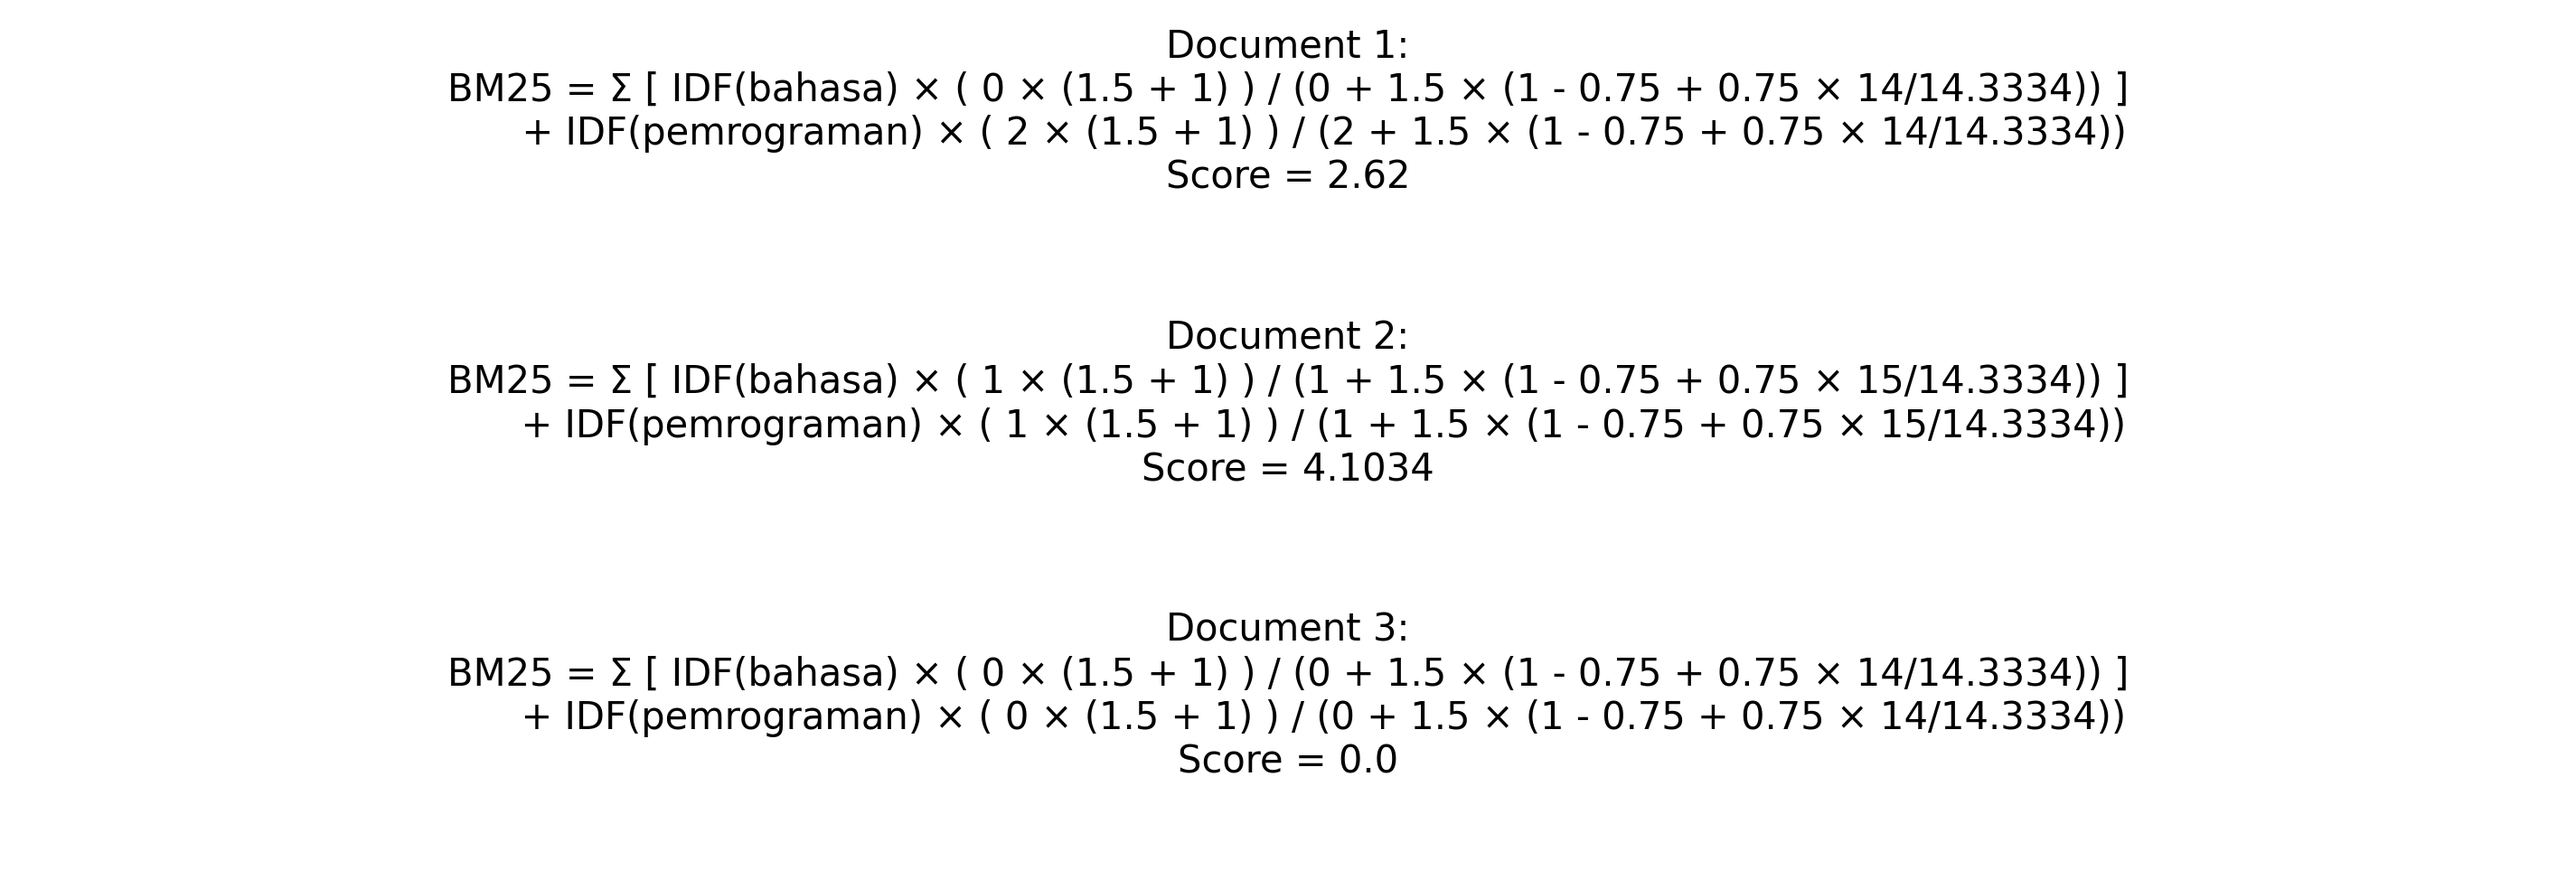
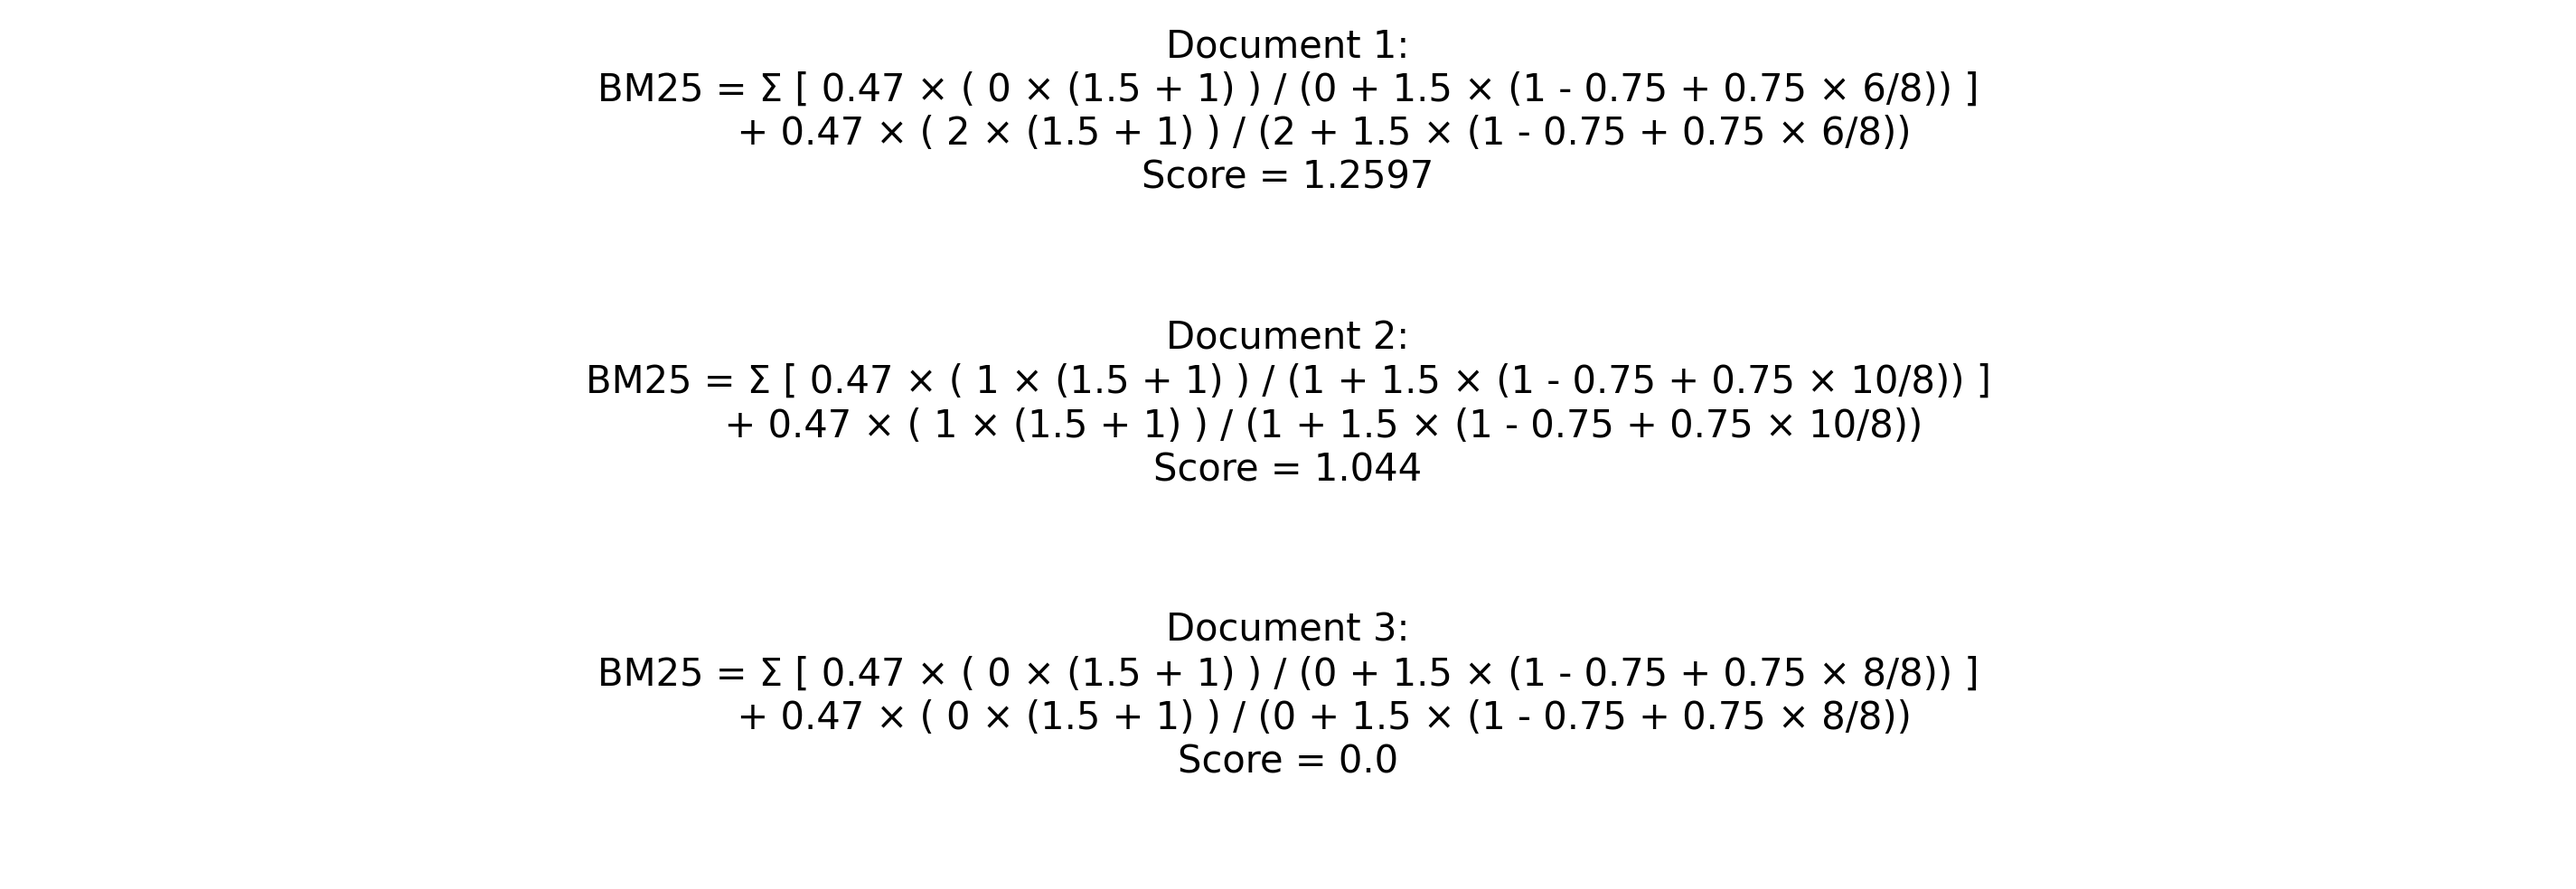
done

Changed region(s): [[0.1561, 0.061, 0.8119, 0.2134], [0.1561, 0.3963, 0.8432, 0.5488], [0.1561, 0.7317, 0.8432, 0.8232]]

diff --git a/revisi.py b/revisi.py
@@ -59,9 +59,12 @@ class InformationRetrievalApp:
     def sort_files_by_bm25_scores(self,scores):
         return sorted(scores, key=lambda x: x[1], reverse=True)
 
-    # function untuk mengecek keterkaitan antara teks dokumen dan query
-    def filter_document_terms(self, query_terms, document_terms):
-        return [term for term in document_terms if term in query_terms]
+    # Cache dokumen setelah preprocessing
+    def preprocess_documents(self, files):
+        self.processed_documents = {
+            file: self.text_processor.process_text(self.read_file(file))
+            for file in files
+        }
 
     # function untuk proses perhitungan skor BM25
     def calculate_bm25(self, query, document, document_length, average_document_length, k1=1.5, b=0.75):
@@ -76,27 +79,34 @@ class InformationRetrievalApp:
             if count > 1:
                 print(f"Kata {word} sebanyak {count} kata\n")
 
-        # Proses perhitungan nilai IDF untuk setiap term pada query
-        # untuk mengukur seberapa jarang kemunculan suatu term pada dokumen
+        
         idf_values = {}
+        bm25_scores = []
+        N = len(self.documents)
+
         for term in query_terms:
-            df = sum(1 for doc_terms in document_terms if term in doc_terms)
-            if df == 0:
+            # Proses perhitungan nilai IDF untuk setiap term pada query
+            # untuk mengukur seberapa jarang kemunculan suatu term pada dokumen
+            n_q = sum(1 for doc_terms in self.processed_documents.values() if term in doc_terms)
+            print(f'N:{N}')
+            print(f'n_q:{n_q}')
+            
+            if n_q == 0:
                 idf_values[term] = 0
             else:
-                idf_values[term] = math.log((len(document_terms) - df) / (df))
+                idf_values[term] = math.log(((N - n_q + 0.5) / (n_q + 0.5))+1)
 
-        print(f'Nilai IDF: {idf_values}')
+            print(f'pjg doc: {len(document_terms)}')
+            print(f'avg pjg doc: {average_document_length}')
 
-        # Proses perhitungan skor BM25 untuk setiap term
-        bm25_scores = []
-        for term in query_terms:
+            # Proses perhitungan skor BM25
             tf = term_freqs[term]
             numerator = tf * (k1 + 1)
-            denominator = tf + k1 * (1 - b + b * (document_length / average_document_length))
+            denominator = tf + k1 * (1 - b + b * (len(document_terms) / average_document_length))
             bm25_scores.append(idf_values[term] * numerator / denominator)
 
-        print(f'Skor BM25: {bm25_scores}')
+        print(f'Nilai IDF: {idf_values}')
+        print(f'Skor BM25: {sum(bm25_scores)}')
 
         # Mengembalikan jumlah skor BM25 untuk setiap term,
         # yang mengukur relevansi antara query dan dokumen/file
@@ -165,16 +175,14 @@ class InformationRetrievalApp:
             return ''
 
     # function menghitung rata-rata panjang dokumen
-    def calculate_average_document_length(self,files):
-        for file in files:
-            print(f'Panjang dokumen: {len(self.read_file(file).split())}')
-        total_words = sum(len(self.read_file(file).split()) for file in files)
-        return total_words / len(files)
+    def calculate_average_document_length(self):
+        total_words = sum(len(doc) for doc in self.processed_documents.values())
+        return total_words / len(self.processed_documents)
 
     # function proses temu balik informasi
     def search_files_with_bm25(self, query, files):
         # Hitung rata-rata panjang dokumen/file
-        average_document_length = self.calculate_average_document_length(files)
+        average_document_length = self.calculate_average_document_length()
         print(f'Rata-rata panjang dokumen: {average_document_length}')
 
         # Hitung skor BM25
@@ -199,7 +207,11 @@ class InformationRetrievalApp:
         # menampung semua file pada folder dalam suatu list
         files = [os.path.join(directory_path, filename) for filename in os.listdir(directory_path) if
                  os.path.isfile(os.path.join(directory_path, filename))]
+        self.documents = files
+        # Preprocess semua dokumen
+        self.preprocess_documents(files)
 
+        self.list_file.delete(1.0,tk.END)
         self.list_file.insert(tk.END, f"Jumlah dokumen pada folder={len(files)}\n")
         self.list_file.insert(tk.END, "========================================\n")
 
@@ -220,7 +232,6 @@ class InformationRetrievalApp:
             self.result_text.insert(tk.END, f"Menampilkan {len(result_files)} hasil\n")
             self.result_text.insert(tk.END, f"=====================================\n")
             for rank, (file, score) in enumerate(result_files, start=1):
-                # if score > 0:
                     self.result_text.insert(tk.END, f"Rank {rank}: {os.path.basename(file)} (Similarity Score: {score:.4f})\n")
         # jika tidak
         else:

diff --git a/rumus.py b/rumus.py
@@ -1,21 +1,21 @@
 import matplotlib.pyplot as plt
 
-# Define the values for BM25 calculations for three documents
+# # Define the values for BM25 calculations for three documents
 doc_values = {
     "Document 1": {
-        "doc_length": 14,
+        "doc_length": 6,
         "bahasa_freq": 0,
         "pemrograman_freq": 2,
-        "score": 2.62
+        "score": 1.2597
     },
     "Document 2": {
-        "doc_length": 15,
+        "doc_length": 10,
         "bahasa_freq": 1,
         "pemrograman_freq": 1,
-        "score": 4.1034
+        "score": 1.0440
     },
     "Document 3": {
-        "doc_length": 14,
+        "doc_length": 8,
         "bahasa_freq": 0,
         "pemrograman_freq": 0,
         "score": 0.0
@@ -28,8 +28,8 @@ fig, ax = plt.subplots(figsize=(12, 4))
 # Render each document calculation
 for i, (doc, values) in enumerate(doc_values.items()):
     text = f"{doc}:\n" \
-           f"BM25 = Σ [ IDF(bahasa) × ( {values['bahasa_freq']} × (1.5 + 1) ) / ({values['bahasa_freq']} + 1.5 × (1 - 0.75 + 0.75 × {values['doc_length']}/14.3334)) ]\n" \
-           f"      + IDF(pemrograman) × ( {values['pemrograman_freq']} × (1.5 + 1) ) / ({values['pemrograman_freq']} + 1.5 × (1 - 0.75 + 0.75 × {values['doc_length']}/14.3334))\n" \
+           f"BM25 = Σ [ 0.47 × ( {values['bahasa_freq']} × (1.5 + 1) ) / ({values['bahasa_freq']} + 1.5 × (1 - 0.75 + 0.75 × {values['doc_length']}/8)) ]\n" \
+           f"      + 0.47 × ( {values['pemrograman_freq']} × (1.5 + 1) ) / ({values['pemrograman_freq']} + 1.5 × (1 - 0.75 + 0.75 × {values['doc_length']}/8))\n" \
            f"Score = {values['score']}"
     ax.text(0.5, 1 - i * 0.35, text, fontsize=10, va='top', ha='center', wrap=True)
 

diff --git a/text_processor.py b/text_processor.py
@@ -180,10 +180,12 @@ class TextProcessor:
         return ' '.join(hasil_stemming)
     
     def process_text(self, text):
-        content = self.clean_text(text) # proses cleaning text
+        content = self.clean_text(text) # proses cleaning text 
         tokens = self.tokenizing(content) # proses tokenisasi
+        print(f'Tokenisasi:{tokens}')
         filtered_tokens = self.stopword_removal(tokens) # proses stopword removal
+        print(f'Stopword removal:{filtered_tokens}')
         stemmed_tokens = [self.stem_kata(token) for token in filtered_tokens]  # proses stemming
-        print(str(stemmed_tokens)) # menampilkan hasil pre-processing
+        print(f'Stemming: {str(stemmed_tokens)}') # menampilkan hasil pre-processing
 
         return stemmed_tokens
